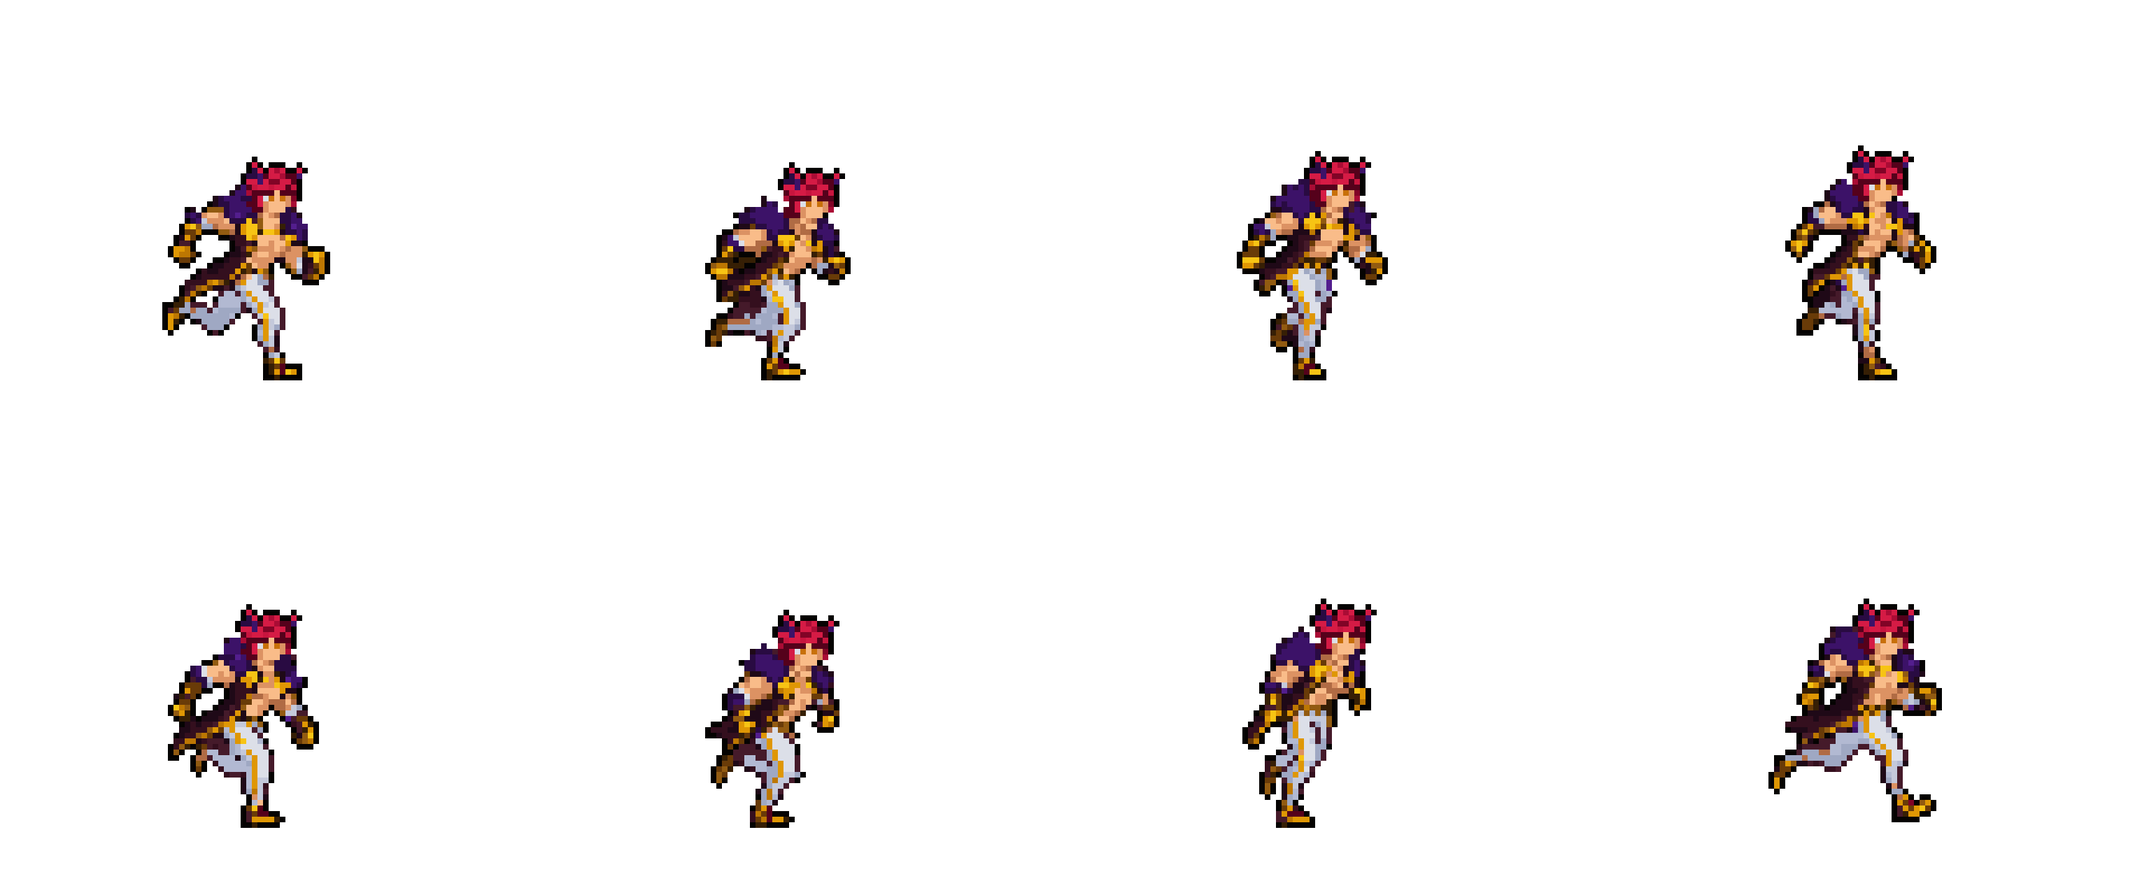
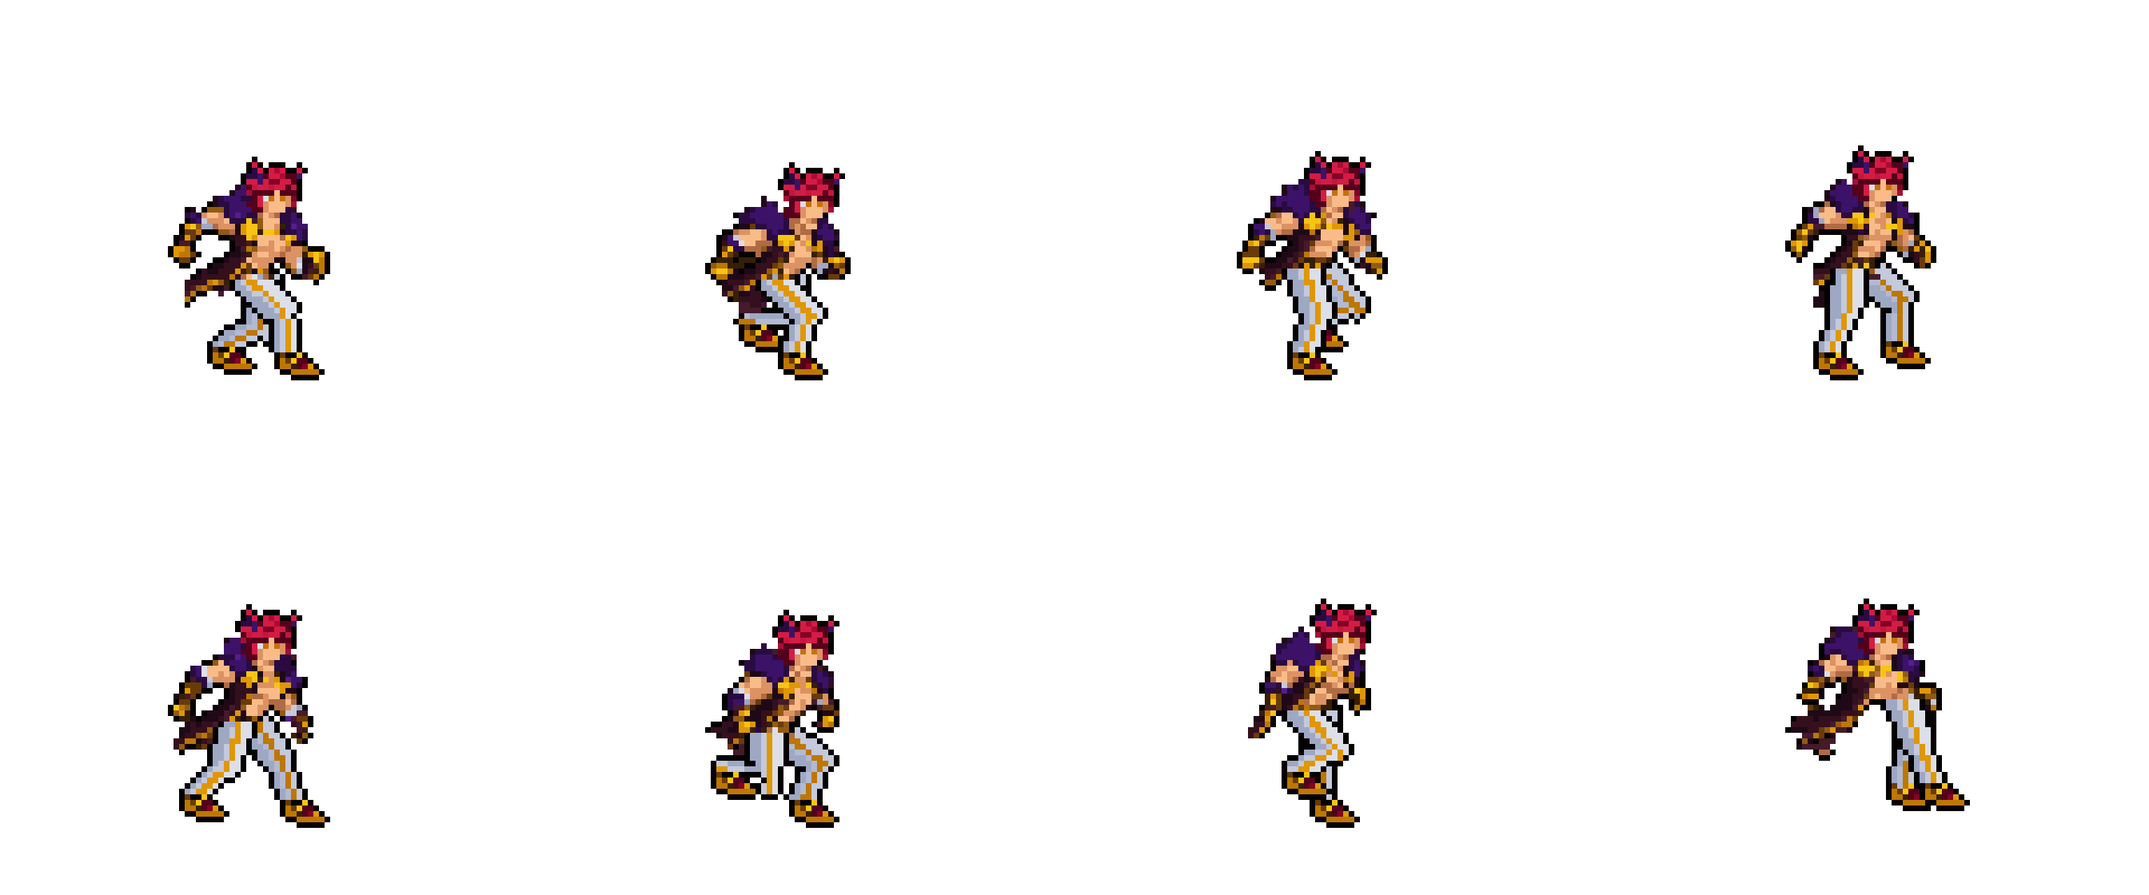
Sett's run: two legs drawn at the design's width along a run cycle
The user: the legs in the run look thin and change shape. Codex's shins
were 3-4 squares, the back leg came and went behind the coat, the shoes
changed size and the legs hardly took turns. As Sivir's run: Codex's upper
body stays (the pumping fists, the lean, the coat streaming back); under the
belt its legs go (its back leg's thin plum strips, and anything but legs in
the 12 rows over the ground) and two legs are drawn along a run cycle: each
foot placed, the knee solved forward, both legs the same length and the
design's width (thigh 6, shin 4) in the trousers' shades with the gold
stripe, the far one a shade darker behind the coat, the design's own shoe at
each ankle, one foot always on the ground.

Claude-Session: https://claude.ai/code/session_013ozFjjk4D3cQh1ENPPBVLj

diff --git a/tools/art/strips_sett.py b/tools/art/strips_sett.py
@@ -67,6 +67,24 @@ HEAD_FROM = {("ult_slam", 0): (1, -5)}
 # LEG_ROWS rows of the frame take the trousers' shades
 LEG_VIOLET = {"run": 16}
 TROUSERS = {"290B42": "9FA8C3", "3C1268": "9FA8C3", "531E8E": "B2B9D2"}
+# The run's legs, redrawn (「移动的时候腿有点细？有点变形？」: Codex's legs were 3-4 squares thin, the back one came
+# and went behind the coat and the shoes changed size; the far leg barely took turns with the near one). As Sivir's
+# run (rig_sivir_run.py, the version the user liked): Codex's upper body stays (the pumping fists, the lean, the coat
+# streaming back); under the belt its legs go and two legs are drawn along a run cycle - each foot placed (ahead on
+# the contact, drawn back under the body, off the toe, kicked up behind, swung through, reaching), the knee solved
+# forward, both legs the design's length and width (thigh 6 squares, shin 4) in the trousers' shades with the gold
+# side stripe, the far leg a shade darker and behind the coat, the near one over everything, the design's own shoe
+# (its far one, curled to the right) at each ankle. One foot is always on the ground.
+RUN_THIGH, RUN_SHIN = 8.0, 7.2            # hip -> knee, knee -> ankle: a little longer than the drop from the
+#                                           belt to the shoe top (~13 rows), so the planted leg bends at the knee
+RUN_W = (2.7, 1.9)                        # half widths of the thigh and the shin
+RUN_FOOT = [(6.6, 0), (3.3, 0), (0.0, 0), (-3.9, 0), (-7.7, 1), (-7.2, 5.5), (-1.1, 5.5), (5.5, 2.2)]
+RUN_HIP_GAP = 1.5                          # the near hip this far left of the trousers' middle, the far one right
+RUN_SHADES = {"near": ("DCDFE8", "C4C9DB", "9FA8C3", "DF9704"), "far": ("C4C9DB", "B2B9D2", "9FA8C3", "BD7702")}
+SHOE = (66, 95, 75, 100)                  # the design's far shoe on the canvas (x0, y0, x1, y1)
+SHOE_ANKLE = (68.5, 95)
+COAT = {"1F0917", "340F1E", "451A2A"}
+RUN_COAT = 12                              # the coat's tails end above the knees: only legs this near the ground
 HEAD_SURE = 0.5
 HAIR = {"55011B", "810426", "AA0C35", "C7153E", "D51B45"}
 SKIN = {"B06B44", "DC9263", "F9BC89"}
@@ -193,6 +211,136 @@ def trousers(fig, rows):
                 c = TROUSERS[h]
                 out[y, x] = (int(c[0:2], 16), int(c[2:4], 16), int(c[4:6], 16), 255)
     return out
+
+
+def seg(p, a, b):
+    """(distance from p to segment a-b, position along it, side: + to the right of a->b going down)."""
+    vx, vy = b[0] - a[0], b[1] - a[1]
+    n = float(np.hypot(vx, vy)) or 1e-9
+    s = max(0.0, min(n, ((p[0] - a[0]) * vx + (p[1] - a[1]) * vy) / n))
+    qx, qy = a[0] + vx / n * s, a[1] + vy / n * s
+    return float(np.hypot(p[0] - qx, p[1] - qy)), s, (p[0] - qx) * (vy / n) - (p[1] - qy) * (vx / n)
+
+
+def ik(hip, ankle, l1=RUN_THIGH, l2=RUN_SHIN):
+    """The knee of a two-bone leg from hip to ankle, bent forward (+x); the ankle drawn in if out of reach."""
+    dx, dy = ankle[0] - hip[0], ankle[1] - hip[1]
+    d = float(np.hypot(dx, dy))
+    if d >= l1 + l2 - 1e-6:
+        k = (l1 + l2 - 1e-6) / d
+        ankle = (hip[0] + dx * k, hip[1] + dy * k)
+        dx, dy, d = dx * k, dy * k, l1 + l2 - 1e-6
+    a = (l1 * l1 - l2 * l2 + d * d) / (2 * d)
+    h = float(np.sqrt(max(0.0, l1 * l1 - a * a)))
+    nx, ny = -dy / d, dx / d
+    if nx < 0:
+        nx, ny = -nx, -ny
+    return (hip[0] + dx * a / d + nx * h, hip[1] + dy * a / d + ny * h), ankle
+
+
+def rgba(h):
+    return np.array((int(h[0:2], 16), int(h[2:4], 16), int(h[4:6], 16), 255), np.uint8)
+
+
+def shoe():
+    """The design's far shoe (curled to the right) as {(dx, dy) from its ankle: colour}, its outline left to leg()."""
+    a = K.design_1x()
+    x0, y0, x1, y1 = SHOE
+    out = {}
+    for y in range(y0, y1):
+        for x in range(x0, x1):
+            if a[y, x, 3] and hexs(a[y, x]) not in TROUSERS_ALL and hexs(a[y, x]) != "050302":
+                out[(x - int(SHOE_ANKLE[0]), y - SHOE_ANKLE[1])] = a[y, x].copy()
+    return out
+
+
+TROUSERS_ALL = {"9FA8C3", "B2B9D2", "C4C9DB", "DCDFE8"}
+
+
+def leg(hip, knee, ankle, shades, foot):
+    """{(x, y): colour} of one leg: the thigh and the shin in the trousers' shades (lit on the front, dark behind,
+    the gold stripe down the middle), the shoe at the ankle, one outline ring (nothing under the ankle's shoe line)."""
+    lit, mid, dark, gold = shades
+    cells = {}
+    xs, ys = [hip[0], knee[0], ankle[0]], [hip[1], knee[1], ankle[1]]
+    for y in range(int(min(ys)) - 3, int(max(ys)) + 3):
+        for x in range(int(min(xs)) - 4, int(max(xs)) + 5):
+            p = (x + 0.5, y + 0.5)
+            d1, s1, side1 = seg(p, hip, knee)
+            d2, s2, side2 = seg(p, knee, ankle)
+            if d1 <= RUN_W[0] and (d1 <= d2 or s1 < RUN_THIGH * 0.6):
+                side = side1
+            elif d2 <= RUN_W[1] and p[1] < ankle[1] + 0.5:
+                side = side2
+            else:
+                continue
+            cells[(x, y)] = rgba(gold if abs(side - 0.4) < 0.5 else lit if side > 0.9 else dark if side < -0.9 else mid)
+    ax, ay = int(round(ankle[0] - 0.5)), int(round(ankle[1]))
+    for (dx, dy), c in foot.items():
+        cells[(ax + dx, ay + dy)] = c
+    ring = {}
+    for (x, y) in cells:
+        for dx, dy in ((1, 0), (-1, 0), (0, 1), (0, -1)):
+            q = (x + dx, y + dy)
+            if q not in cells:
+                ring[q] = rgba("050302")
+    ring.update(cells)
+    return ring
+
+
+def run_legs(c, k):
+    """Run frame k with Codex's legs under the belt replaced by two drawn legs (see RUN_THIGH)."""
+    c = c.copy()
+    H, W = c.shape[:2]
+    top = mid = None
+    for y in range(44, 60):
+        xs = [x for x in range(36, 57) if c[y, x, 3] and hexs(c[y, x]) in TROUSERS_ALL]
+        if len(xs) >= 3:
+            top, mid = y, (min(xs) + max(xs) + 1) / 2
+            break
+    # Codex's legs go: under the belt, round the trousers' middle, all but the coat (and the coat's gold beside it)
+    x0, x1 = int(mid) - 20, int(mid) + 12
+    for y in range(top, H):
+        for x in range(W) if y > FEET - RUN_COAT else range(max(0, x0), min(W, x1)):
+            if not c[y, x, 3]:
+                continue
+            h = hexs(c[y, x])
+            coat = h in COAT or (h not in TROUSERS_ALL and h != "050302" and any(
+                c[y + dy, x + dx, 3] and hexs(c[y + dy, x + dx]) in COAT
+                for dy, dx in ((1, 0), (-1, 0), (0, 1), (0, -1)) if 0 <= y + dy < H and 0 <= x + dx < W))
+            if not coat or y > FEET - RUN_COAT:
+                c[y, x] = 0
+    # what Codex shaded its back leg with reads as the coat's plum too: under the belt only the coat's mass stays (a
+    # square with at least 3 of its 8 neighbours drawn in it), the leg's thin strips go
+    for _ in range(2):
+        keep = c.copy()
+        for y in range(top + 1, H):
+            for x in range(1, W - 1):
+                if c[y, x, 3] and hexs(c[y, x]) != "050302":
+                    n = sum(1 for dy in (-1, 0, 1) for dx in (-1, 0, 1) if (dy or dx) and c[y + dy, x + dx, 3]
+                            and hexs(c[y + dy, x + dx]) != "050302")
+                    if n < 3:
+                        keep[y, x] = 0
+        c = keep
+    c = orphans(c)
+    foot = shoe()
+    hip_y = top + 0.5
+    ankle_y = FEET - 4 + 0.0                 # the shoe's top row: 4 rows over the soles' row
+    legs = {}
+    for side, ph, dx in (("near", k % 8, -RUN_HIP_GAP), ("far", (k + 4) % 8, RUN_HIP_GAP)):
+        fx, lift = RUN_FOOT[ph]
+        hip = (mid + dx, hip_y)
+        knee, ankle = ik(hip, (hip[0] + fx, ankle_y - lift))
+        legs[side] = leg(hip, knee, ankle, RUN_SHADES[side], foot)
+    for (x, y), col in legs["far"].items():
+        if 0 <= y <= FEET and 0 <= x < W and not c[y, x, 3]:
+            c[y, x] = col
+    for (x, y), col in legs["near"].items():
+        if top <= y <= FEET and 0 <= x < W:
+            c[y, x] = col
+    c = pieces(c)
+    c, _, _ = G.complete_outline(c, feet=FEET)
+    return c
 
 
 def head_sprite():
@@ -447,6 +595,8 @@ def build(cells, src=SRC):
             ys, xs = np.nonzero(fig[..., 3])
             ok = (ys + oy >= 0) & (ys + oy < CH) & (xs + ox >= 0) & (xs + ox < CW)
             c[ys[ok] + oy, xs[ok] + ox] = fig[ys[ok], xs[ok]]
+            if tag == "run":
+                c = run_legs(c, k)
             out.append(c)
             rep.append((None if share is None else round(share, 2), fig.shape[1], fig.shape[0], lift,
                         int((fig[..., 3] > 0).sum()), int((~ok).sum())))

diff --git a/README.md b/README.md
@@ -2215,7 +2215,7 @@ python tools/art/preview_sivir.py
 | 技能2 | W「蓄意轰拳」：冷却 9 秒。被动「豪意」：挨打攒豪意，最多 5 层，4 秒没挨打就散。施放时消耗全部豪意，得到 50 + 20% 攻击力的护盾（每层 +30 + 25%），3 秒；蓄力约 0.5 秒后向前轰出一拳（出手时就锁定了方向，可以躲开）：拳头范围内 40 + 70% 物理伤害，正中一条再受 30 + 30% 真实伤害（每层 +10 + 8%） |
 | 大招 | R「叹为观止」：冷却 50 秒，对 30000 内的敌方英雄。抓住他（眩晕到砸地之后），往前扔出 24000，自己同速跳着追上去砸地：半径 26000 内的敌人受到 120 + 100% 攻击力 + 各自 4% 最大生命值的物理伤害、减速 99% 0.5 秒，被扔的英雄再受 6% 最大生命值；整个过程免疫控制 |
 | 数值 | 攻击 90（+18）、生命 1100（+110）、护甲 34（+8）、魔抗 26（+4）、移速 1000（+11）、生命回复 5（+2）。按原版范围和德莱厄斯、亚托克斯定的初稿，还没在 SDK 上模拟 |
-| 精灵图 | 制作中：第 0 步原画（[`assets/source/sett/PICTURE_PROMPT.md`](assets/source/sett/PICTURE_PROMPT.md)）Codex 画了 A（英雄联盟的待机：挺胸抬下巴）、B（拳击架势），用户选 A（[`codex_picture/`](assets/source/sett/codex_picture/)）；第 1 步按游戏尺寸画造型（[`MODEL_PROMPTS.md`](assets/source/sett/MODEL_PROMPTS.md)，包由 `tools/art/pack_sett_model.py` 生成）：耳尖到脚底 42 格，头 13 / 11 格两版，原画的头只占 16%，缩下来脸会糊。第一轮（[`codex_model/`](assets/source/sett/codex_model/)）Codex 没画在游戏尺寸上：原稿按自己的格子读回是 50×81（B）和 78×118（A），交的 42 格版是缩小再把头和身体分开重采样拼的，脸、毛领、拳头碎成杂点；原稿 B 本身干净，第二轮的包（[`MODEL_REDO.md`](assets/source/sett/MODEL_REDO.md)，`tools/art/pack_sett_model_redo.py`）没有发出：用户「直接用这个然后你慢慢调整就行了」，造型直接从原稿 B 读到 42 行（`tools/art/design_sett.py`，蔚的做法：每个游戏像素读它覆盖的那块原稿，颜色归到原稿自己的 25 色，描边的黑占 40% 就保留，零星单格并掉，补齐描边；用户：「还有去掉身体上没用的黑色素 弄干净一点 现在非常不干净」——只留轮廓外圈的黑描边，身体里面的黑格从外往里换成材质的最深色：被一种材质包住的用那种材质的，两种材质交界的用较暗那种的（皮肤和外套之间是外套的深梅色，挨着毛领是深紫），黑格从 280 减到 147），脸照规则手画：眉毛用头发最深的红，一行眼睛——近眼白色高光旁一格深琥珀色的虹膜、远眼一格琥珀色，嘴是一格阴影，琥珀色只有眼睛有（第一版眼睛下面还有一行琥珀色，用户：「这两坨黄的有点怪吧」，三种脸里选了这种：「用option2」；之后照原稿 B 的眼睛试画过 3×2 的大眼睛——深色眼睑、白色高光、琥珀色虹膜、黑瞳、下面一行亮金，用户：「就用option2吧」），26 × 42，26 色（[`assets/source/native/sett_native.png`](assets/source/native/sett_native.png)）；参考是用户从本机客户端导出的原画和模型渲染（Riot 素材，不进仓库）。用户：「没有了弄的很好 下一步吧」。第 2 步动作（[`MODEL_STRIPS.md`](assets/source/sett/MODEL_STRIPS.md)）：英雄联盟的动作按 [`poses.json`](assets/source/sett/poses.json) 在本机用 `native_pose.py` 渲染成游戏尺寸（格子 96×80，脚底线在第 67 行），帧时长按技能数据的出手 tick 排：普攻第 4 帧 = tick 12、右拳第 3 帧 = 动作 tick 9、E 第 4 帧抓住 = tick 10 / 第 6 帧对撞 = tick 18、W 的蓄力从原版 0.78 秒压到 0.48 秒、第 5 帧出拳 = tick 29、R 第 4 帧扔出 = tick 8、砸地第 2 帧 = tick 4；`tools/art/pack_sett_strips.py` 把渲染、定稿、要贴的头（耳尖到下巴 90 格）、色板、做好的待机条和参考线图打成给 Codex 的包。Codex 交回的动作条（[`codex_strips/`](assets/source/sett/codex_strips/) 的 `HANDOFF.md`）是它把定稿切成部件再拼的：跑步的腿和外套碎成一片金色杂点，出拳的手臂拉成细长棍，拳头飘在外面，死亡倒地是一团。用户：「有问题的地方你帮我修正 codex太笨了」「你可以看一下其他窗口修复模型的经验 认真的修复」。它的生图原稿（每条一张，50–54 格高）姿势和像素都干净，所以照蔚的做法（`strips_vi.py`）：`tools/art/strips_sett.py` 把原稿每帧按定稿的读法读到 42 行（每条按它站着那帧的高度定方块大小，颜色归到定稿的 25 色，眼睛的琥珀色不用；零星单格并掉、补描边、清掉身体里的黑），在每帧自己的头最吻合的地方贴定稿的头（头发和皮肤对得上 75–94%），先擦掉 Codex 自己的头发、眼睛和脸那一侧的皮肤（瑟提脑后没有长发，Codex 画的一大蓬也擦掉）、头边上剩下的耳朵碎块和孤立的描边；倒地的死亡第 3–8 帧留 Codex 自己的头。位置：横向让贴的头落在英雄联盟头关节的位置（`sett_cells.json`），落地的帧脚底踩第 67 行，跑步和砸地第 1 帧离地多少照原稿，飞扑悬在地面上方 5 格，砸地第 1 帧落在第 2 帧的位置上方；跑步远处那条腿 Codex 涂成了毛领的紫色，改回裤子的颜色。原稿按定稿色板存成索引色 PNG（4.8 MB → 0.6 MB，读出来逐像素不变）。导入（`import_native.py`）：待机 6 帧同一张不呼吸，按眼睛的琥珀色对齐跑步的头，补描边；60 帧 26 色，头像截取点 (−2, −37)。动作标签：`idle` `run` `attack`（左拳）`attack2`（右拳）`skill`（E）`skill2`（W）`ult`（抓起扔出）`ult_dash`（跃起）`ult_slam`（砸地）`hit` `dead`；特效图集 `league_sett_fx` / `league_sett_big` |
+| 精灵图 | 制作中：第 0 步原画（[`assets/source/sett/PICTURE_PROMPT.md`](assets/source/sett/PICTURE_PROMPT.md)）Codex 画了 A（英雄联盟的待机：挺胸抬下巴）、B（拳击架势），用户选 A（[`codex_picture/`](assets/source/sett/codex_picture/)）；第 1 步按游戏尺寸画造型（[`MODEL_PROMPTS.md`](assets/source/sett/MODEL_PROMPTS.md)，包由 `tools/art/pack_sett_model.py` 生成）：耳尖到脚底 42 格，头 13 / 11 格两版，原画的头只占 16%，缩下来脸会糊。第一轮（[`codex_model/`](assets/source/sett/codex_model/)）Codex 没画在游戏尺寸上：原稿按自己的格子读回是 50×81（B）和 78×118（A），交的 42 格版是缩小再把头和身体分开重采样拼的，脸、毛领、拳头碎成杂点；原稿 B 本身干净，第二轮的包（[`MODEL_REDO.md`](assets/source/sett/MODEL_REDO.md)，`tools/art/pack_sett_model_redo.py`）没有发出：用户「直接用这个然后你慢慢调整就行了」，造型直接从原稿 B 读到 42 行（`tools/art/design_sett.py`，蔚的做法：每个游戏像素读它覆盖的那块原稿，颜色归到原稿自己的 25 色，描边的黑占 40% 就保留，零星单格并掉，补齐描边；用户：「还有去掉身体上没用的黑色素 弄干净一点 现在非常不干净」——只留轮廓外圈的黑描边，身体里面的黑格从外往里换成材质的最深色：被一种材质包住的用那种材质的，两种材质交界的用较暗那种的（皮肤和外套之间是外套的深梅色，挨着毛领是深紫），黑格从 280 减到 147），脸照规则手画：眉毛用头发最深的红，一行眼睛——近眼白色高光旁一格深琥珀色的虹膜、远眼一格琥珀色，嘴是一格阴影，琥珀色只有眼睛有（第一版眼睛下面还有一行琥珀色，用户：「这两坨黄的有点怪吧」，三种脸里选了这种：「用option2」；之后照原稿 B 的眼睛试画过 3×2 的大眼睛——深色眼睑、白色高光、琥珀色虹膜、黑瞳、下面一行亮金，用户：「就用option2吧」），26 × 42，26 色（[`assets/source/native/sett_native.png`](assets/source/native/sett_native.png)）；参考是用户从本机客户端导出的原画和模型渲染（Riot 素材，不进仓库）。用户：「没有了弄的很好 下一步吧」。第 2 步动作（[`MODEL_STRIPS.md`](assets/source/sett/MODEL_STRIPS.md)）：英雄联盟的动作按 [`poses.json`](assets/source/sett/poses.json) 在本机用 `native_pose.py` 渲染成游戏尺寸（格子 96×80，脚底线在第 67 行），帧时长按技能数据的出手 tick 排：普攻第 4 帧 = tick 12、右拳第 3 帧 = 动作 tick 9、E 第 4 帧抓住 = tick 10 / 第 6 帧对撞 = tick 18、W 的蓄力从原版 0.78 秒压到 0.48 秒、第 5 帧出拳 = tick 29、R 第 4 帧扔出 = tick 8、砸地第 2 帧 = tick 4；`tools/art/pack_sett_strips.py` 把渲染、定稿、要贴的头（耳尖到下巴 90 格）、色板、做好的待机条和参考线图打成给 Codex 的包。Codex 交回的动作条（[`codex_strips/`](assets/source/sett/codex_strips/) 的 `HANDOFF.md`）是它把定稿切成部件再拼的：跑步的腿和外套碎成一片金色杂点，出拳的手臂拉成细长棍，拳头飘在外面，死亡倒地是一团。用户：「有问题的地方你帮我修正 codex太笨了」「你可以看一下其他窗口修复模型的经验 认真的修复」。它的生图原稿（每条一张，50–54 格高）姿势和像素都干净，所以照蔚的做法（`strips_vi.py`）：`tools/art/strips_sett.py` 把原稿每帧按定稿的读法读到 42 行（每条按它站着那帧的高度定方块大小，颜色归到定稿的 25 色，眼睛的琥珀色不用；零星单格并掉、补描边、清掉身体里的黑），在每帧自己的头最吻合的地方贴定稿的头（头发和皮肤对得上 75–94%），先擦掉 Codex 自己的头发、眼睛和脸那一侧的皮肤（瑟提脑后没有长发，Codex 画的一大蓬也擦掉）、头边上剩下的耳朵碎块和孤立的描边；倒地的死亡第 3–8 帧留 Codex 自己的头。位置：横向让贴的头落在英雄联盟头关节的位置（`sett_cells.json`），落地的帧脚底踩第 67 行，跑步和砸地第 1 帧离地多少照原稿，飞扑悬在地面上方 5 格，砸地第 1 帧落在第 2 帧的位置上方；跑步远处那条腿 Codex 涂成了毛领的紫色，改回裤子的颜色；用户又说「移动的时候腿有点细？有点变形？」（Codex 的小腿只有 3–4 格，后腿时有时无、被外套挡住，鞋子每帧大小不一，两条腿也没有好好交替），照希维尔跑步的做法（`rig_sivir_run.py`，用户认可的那版）：上身留 Codex 的（甩拳、前倾、外套往后飘），腰带以下的腿擦掉（Codex 用外套的深梅色画的后腿细条、离地 12 行以内除了腿的东西都清掉），按跑步周期重画两条腿：每只脚按落地、往后蹬、离地、往后踢、往前带、往前伸放位置，两节腿解出朝前的膝盖，两条腿一样长（大腿 8、小腿 7.2），一样粗（大腿 6 格、小腿 4 格，定稿的粗细），裤子的三档浅灰蓝、中间一道金色侧条，远腿暗一档、在外套后面，近腿在最前面，脚上盖定稿那只朝右弯尖的鞋，始终有一只脚踩在地上。原稿按定稿色板存成索引色 PNG（4.8 MB → 0.6 MB，读出来逐像素不变）。导入（`import_native.py`）：待机 6 帧同一张不呼吸，按眼睛的琥珀色对齐跑步的头，补描边；60 帧 26 色，头像截取点 (−2, −37)。动作标签：`idle` `run` `attack`（左拳）`attack2`（右拳）`skill`（E）`skill2`（W）`ult`（抓起扔出）`ult_dash`（跃起）`ult_slam`（砸地）`hit` `dead`；特效图集 `league_sett_fx` / `league_sett_big` |
 | 音效 | 从本地客户端提取的 13 条技能音效和 3 条中文语音（E、W、R 出手），`.sound_info` 写明每个技能放哪几条。版权属于 Riot Games，**不提交到仓库**，按下面的命令在本地生成 |
 | 图标 | 官方技能图标（E / W / R），从本地客户端提取，缩到 64×64 |
 
